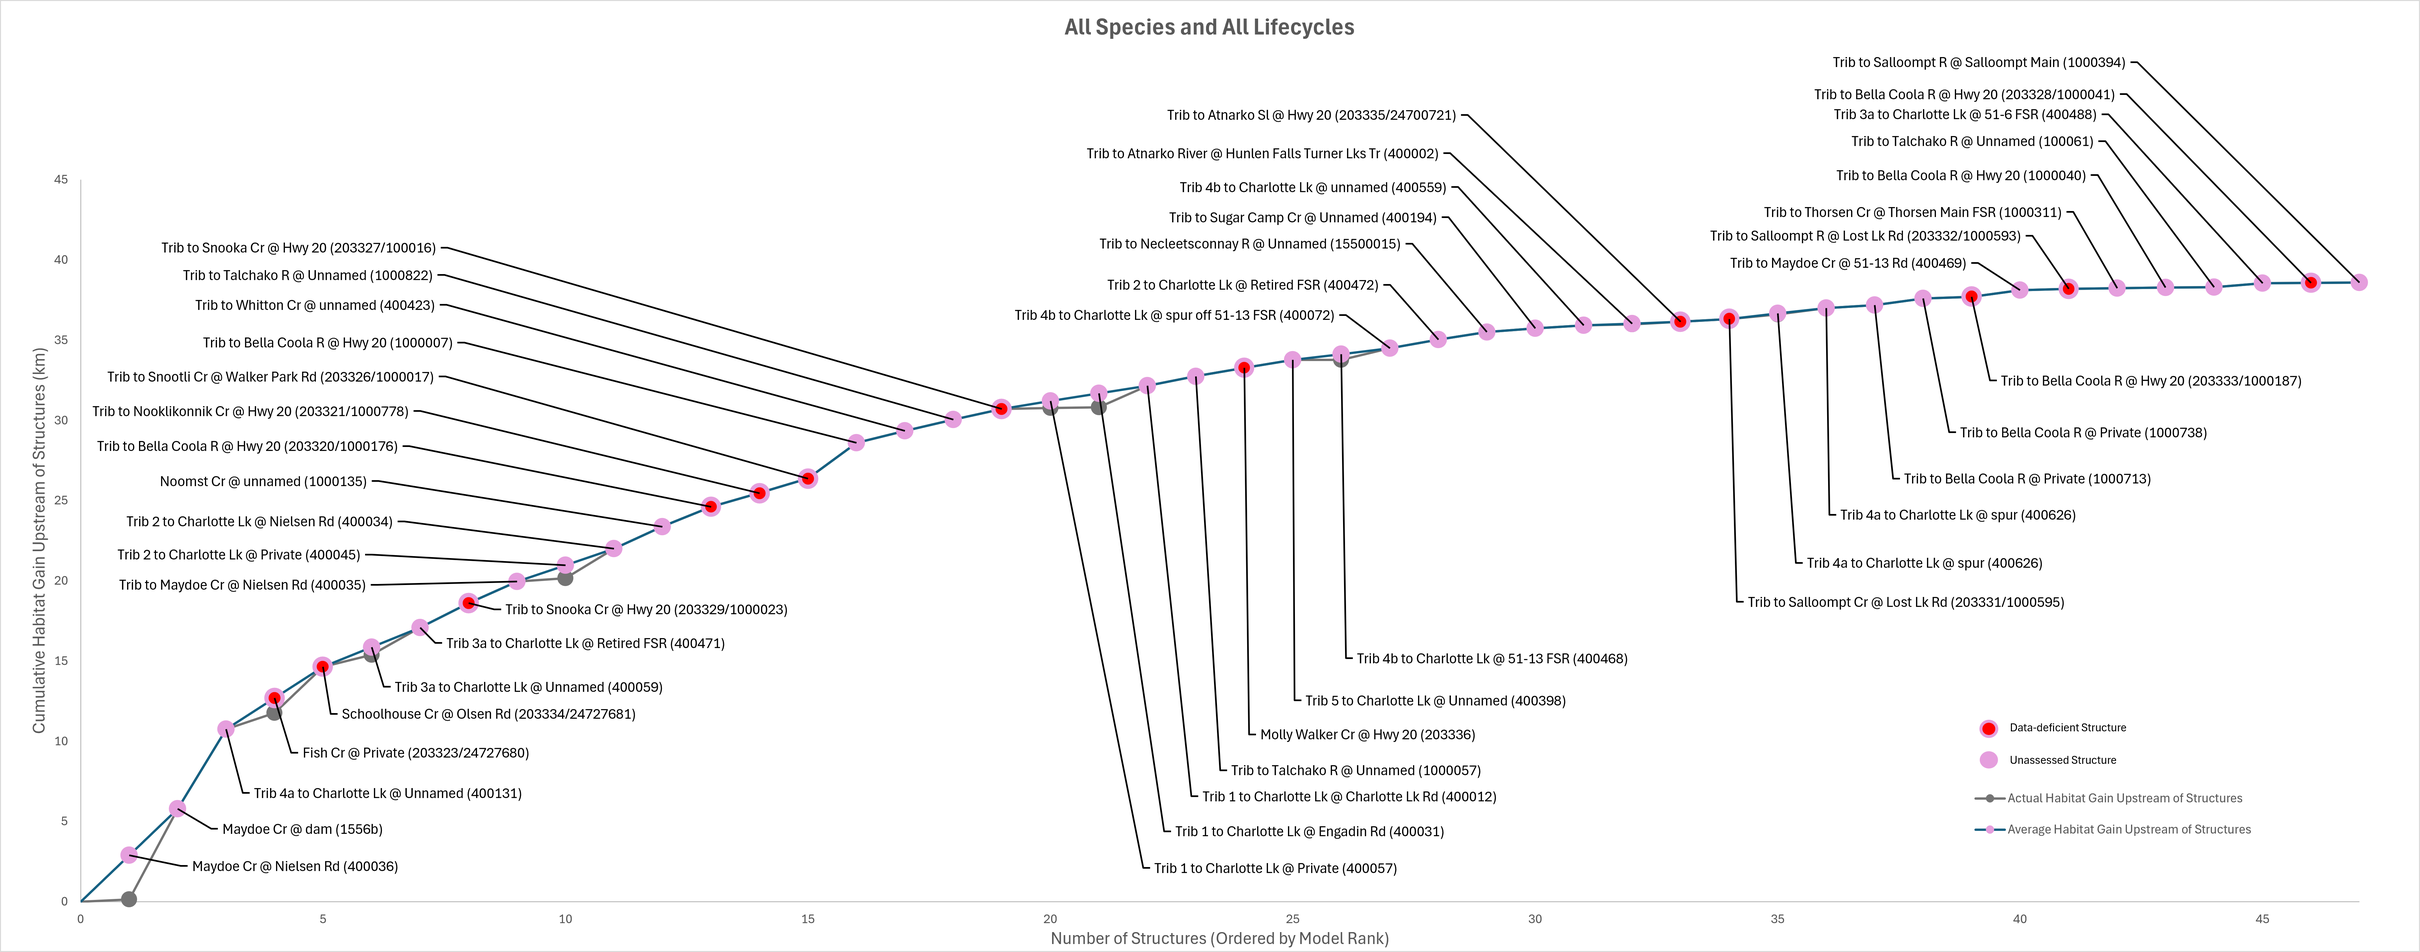
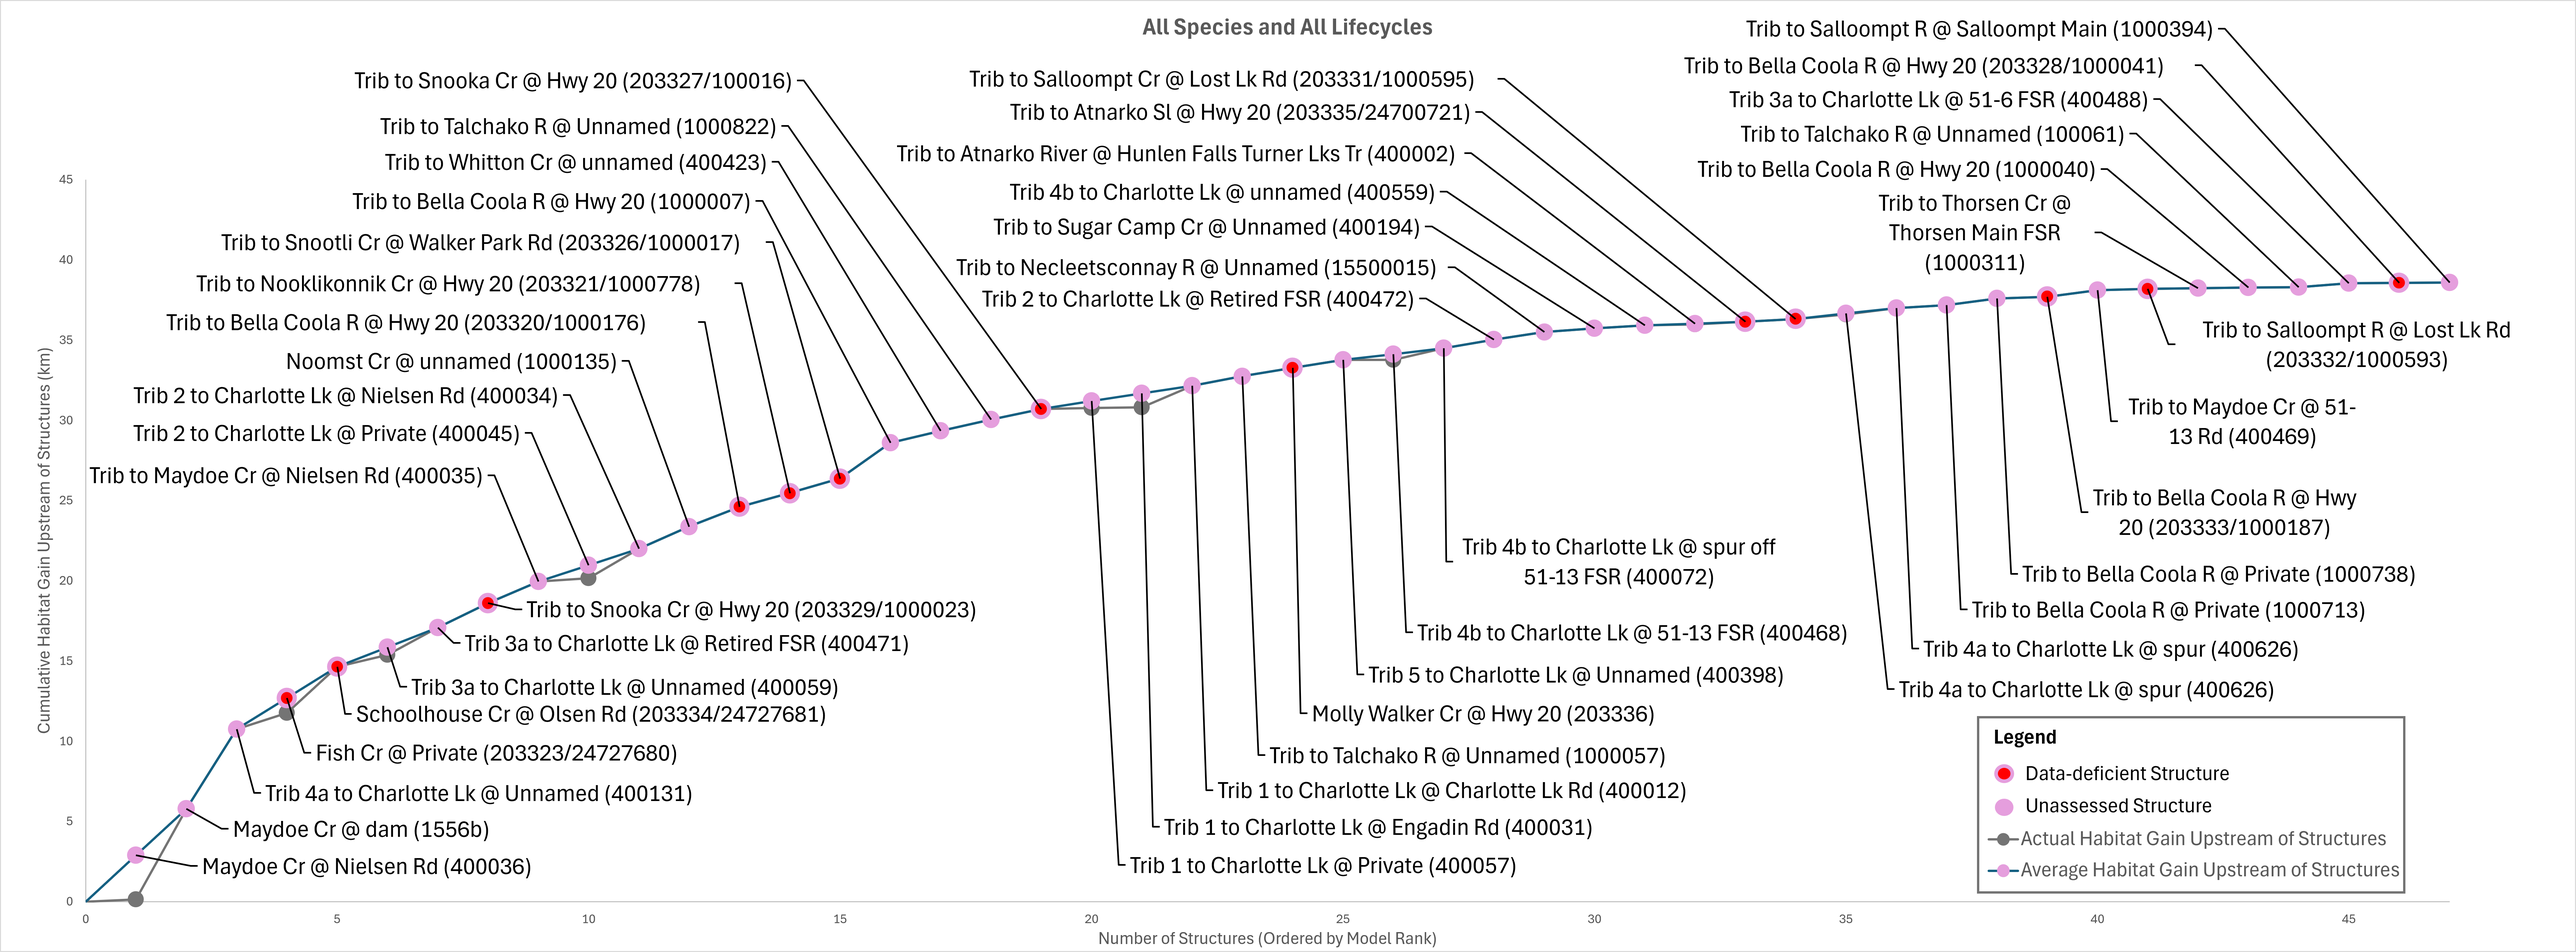
nuxalk-online-wcrp-rnd-3
minor changes
- replacing bag images
- fixing subtitle

diff --git a/_book/index.html b/_book/index.html
@@ -121,7 +121,7 @@ ul.task-list li input[type="checkbox"] {
       <div>
       <div class="quarto-title-meta-heading">Published</div>
       <div class="quarto-title-meta-contents">
-        <p class="date">28-05-2026</p>
+        <p class="date">29-05-2026</p>
       </div>
     </div>
     
@@ -232,8 +232,8 @@ ul.task-list li input[type="checkbox"] {
 <section id="executive-summary" class="level2 unnumbered">
 <h2 class="unnumbered anchored" data-anchor-id="executive-summary">Executive Summary</h2>
 <p>The purpose of the Nuxalk Watershed Connectivity Restoration Plan (WCRP) is to improve understanding of habitat connectivity for Chinook Salmon (<em>Oncorhynchus tschawystcha</em>), Coho Salmon (<em>O. kisutch</em>), and Sockeye Salmon (<em>O. nerka</em>), herein referred to as Pacific salmon, in the Atnarko River, Necleetsconnay River, and Bella Coola River watersheds and inform Nuxalk Nation’s efforts to close knowledge gaps and plan and prioritize restoration. Local data and knowledge are combined with connectivity modelling to estimate current connectivity status and identify structures that potentially block the most habitat. This informs the prioritization of field assessments to close the most significant knowledge gaps efficiently. Information from field assessments of barrier status and habitat condition are incorporated into the model, improving understanding of which barriers block the most habitat, and informing restoration prioritization. As knowledge gaps are closed and barriers are addressed, this plan will be revised to summarize progress and provide updated estimates of connectivity status and the status and relative importance of remaining structures.</p>
-<p>In the Atnarko River, Necleetsconnay River, and Bella Coola River watersheds, X km of Pacific salmon habitat are currently connected to the ocean and X km are disconnected from it. This means that X% of the X km of total habitat is connected.</p>
-<p>In the Atnarko River, Necleetsconnay River, and Bella Coola River watersheds, X structures potentially disconnect Pacific salmon habitat. Of these, X are identified as barriers in need of rehabilitation (priority barriers), X are identified as barriers that do not warrant rehabilitation (non-actionable), and X require further field assessment.</p>
+<p>In the Atnarko River, Necleetsconnay River, and Bella Coola River watersheds, 749.5 km of Pacific salmon habitat are currently connected to the ocean and 38.6 km are disconnected from it. This means that 95% of the 788.1 km of total habitat is connected.</p>
+<p>In the Atnarko River, Necleetsconnay River, and Bella Coola River watersheds, 47 structures potentially disconnect Pacific salmon habitat. Of these, 0 are identified as barriers in need of rehabilitation (priority barriers), 0 are identified as barriers that do not warrant rehabilitation (non-actionable), and 47 require further field assessment.</p>
 <div class="quarto-figure quarto-figure-center">
 <figure class="figure">
 <figcaption>Figure 1: Map of Pacific salmon habitat and structures that are confirmed or potential barriers to fish passage in the Atnarko River, Necleetsconnay River, and Bella Coola River watersheds as of May 2026. Structure data were obtained from BCFishPass and the Canadian Aquatic Barriers Database (aquaticbarriers.ca). The accessibility model represents areas of the watershed that one or more Pacific salmon species could access naturally in the absence of anthropogenic barriers. The habitat model represents the subset of accessible waterbodies that may be used by one or more Pacific salmon species for spawning or rearing. Available local knowledge and data were incorporated and overruled habitat model results. Thick red lines represent habitat considered to be fully disconnected (upstream of barriers or unassessed structures).</figcaption>
@@ -246,7 +246,7 @@ ul.task-list li input[type="checkbox"] {
 <p><img src="content/images/Fig_2_HAC.png" class="img-fluid figure-img"></p>
 </figure>
 </div>
-<p>This WCRP was initiated in 2023. Since then, the passability of X structures has been assessed and the model updated to reflect the status of these assessed structures.</p>
+<p>This WCRP was initiated in 2023. Since then, the passability of 0 structures has been assessed and the model updated to reflect the status of these assessed structures.</p>
 
 
 </section>

diff --git a/_book/content/references.html b/_book/content/references.html
@@ -223,7 +223,7 @@ ul.task-list li input[type="checkbox"] {
 </section>
 <section id="acknowledgements" class="level2 unnumbered">
 <h2 class="unnumbered anchored" data-anchor-id="acknowledgements">Acknowledgements</h2>
-<p>Canadian Wildlife Federation recognizes that the lands and waters that form the basis of this plan are the traditional unceded territory of the Nuxalk and Ulkatcho First Nations. Plan development and implementation was funded by the B.C. Salmon Restoration and Innovation Fund. Members of the planning team (Appendix B) are passionate about the conservation and restoration of freshwater ecosystems and the species they support, and contributed feedback, guidance, and knowledge. Model outputs were further refined based on feedback provided by local knowledge holders beyond the planning team. Accessibility models were inspired by fish-passage prioritization approaches developed by British Columbia’s Fish Passage Technical Working Group.</p>
+<p>Canadian Wildlife Federation recognizes that the lands and waters that form the basis of this plan are the traditional unceded territory of the Nuxalk and Ulkatcho First Nations. Plan development and implementation was funded by the B.C. Salmon Restoration and Innovation Fund. Members of the planning team (<a href="content/appendix-b.qmd">Appendix B</a>) are passionate about the conservation and restoration of freshwater ecosystems and the species they support, and contributed feedback, guidance, and knowledge. Model outputs were further refined based on feedback provided by local knowledge holders beyond the planning team. Accessibility models were inspired by fish-passage prioritization approaches developed by British Columbia’s Fish Passage Technical Working Group.</p>
 </section>
 <section id="references" class="level2 unnumbered">
 <h2 class="unnumbered anchored" data-anchor-id="references">References</h2>
